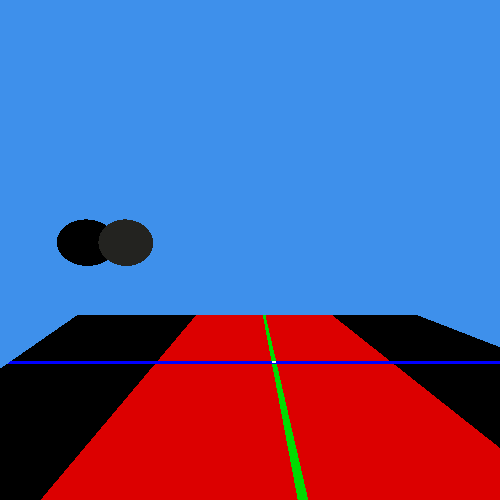
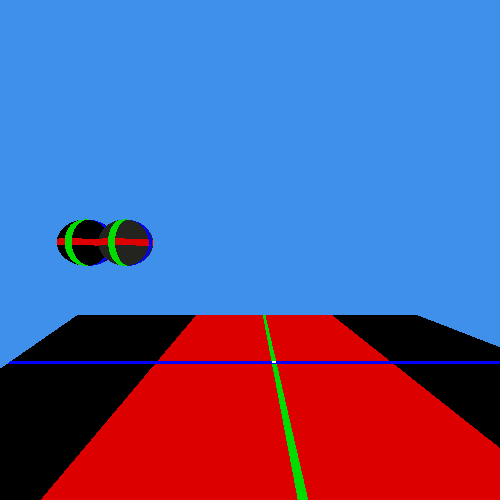
Ray tracer and final project

Changed region(s): [[0.12, 0.42, 0.33, 0.54]]

diff --git a/renderer/src/shape.rs b/renderer/src/shape.rs
@@ -1,7 +1,6 @@
 use crate::material::Material;
-use crate::{LINE_DEPTH, LINE_HEIGHT, LINE_WIDTH, ORIGIN};
-use nalgebra::{abs, point, ComplexField, Vector3};
-use std::ops::{Add, Div, Sub};
+use crate::{LINE_HEIGHT, LINE_WIDTH};
+use nalgebra::{ComplexField, Vector3};
 
 pub(crate) struct Ray {
     origin: Vector3<f32>,
@@ -19,6 +18,12 @@ impl Ray {
 
     pub fn point_at(&self, t: f32) -> Vector3<f32> {
         self.origin + t * self.direction
+    }
+
+    pub fn reflect(&self, point: Vector3<f32>, ray:Ray, normal: Vector3<f32>) -> Ray {
+        let scaled = normal.scale(2.0 * ray.direction.dot(&normal));
+        let new_dir =  ray.direction - scaled;
+        return Ray::new(point, new_dir)
     }
 
     // pub fn reflect(&self, hit_point: Vector3<f32>) -> Vector3<f32> {

diff --git a/renderer/src/Camera.rs b/renderer/src/Camera.rs
@@ -39,10 +39,10 @@ impl Camera {
         for shape_ref in shapes.iter() {
             let shape = *shape_ref;
             let (dist, pt, norm) = shape.intersect(&ray);
-            hit_point = pt;
 
             if dist < closest_dist {
                 closest_dist = dist;
+                hit_point = pt;
                 // This is correct, but let's ensure it's normalized
                 collided = true;
                 hit_shape = Some(shape);

diff --git a/renderer/src/main.rs b/renderer/src/main.rs
@@ -15,7 +15,7 @@ static ORIGIN: Vector3<f32> = Vector3::new(1.0, 1.0, 1.0);
 const WIDTH: u32 = 500;
 const HEIGHT: u32 = 500;
 
-static DEBUG_MODE: bool = true;
+static DEBUG_MODE: bool = false;
 
 static LINE_DEPTH: f32 = 10.0;
 static LINE_WIDTH: f32 = 0.4;
